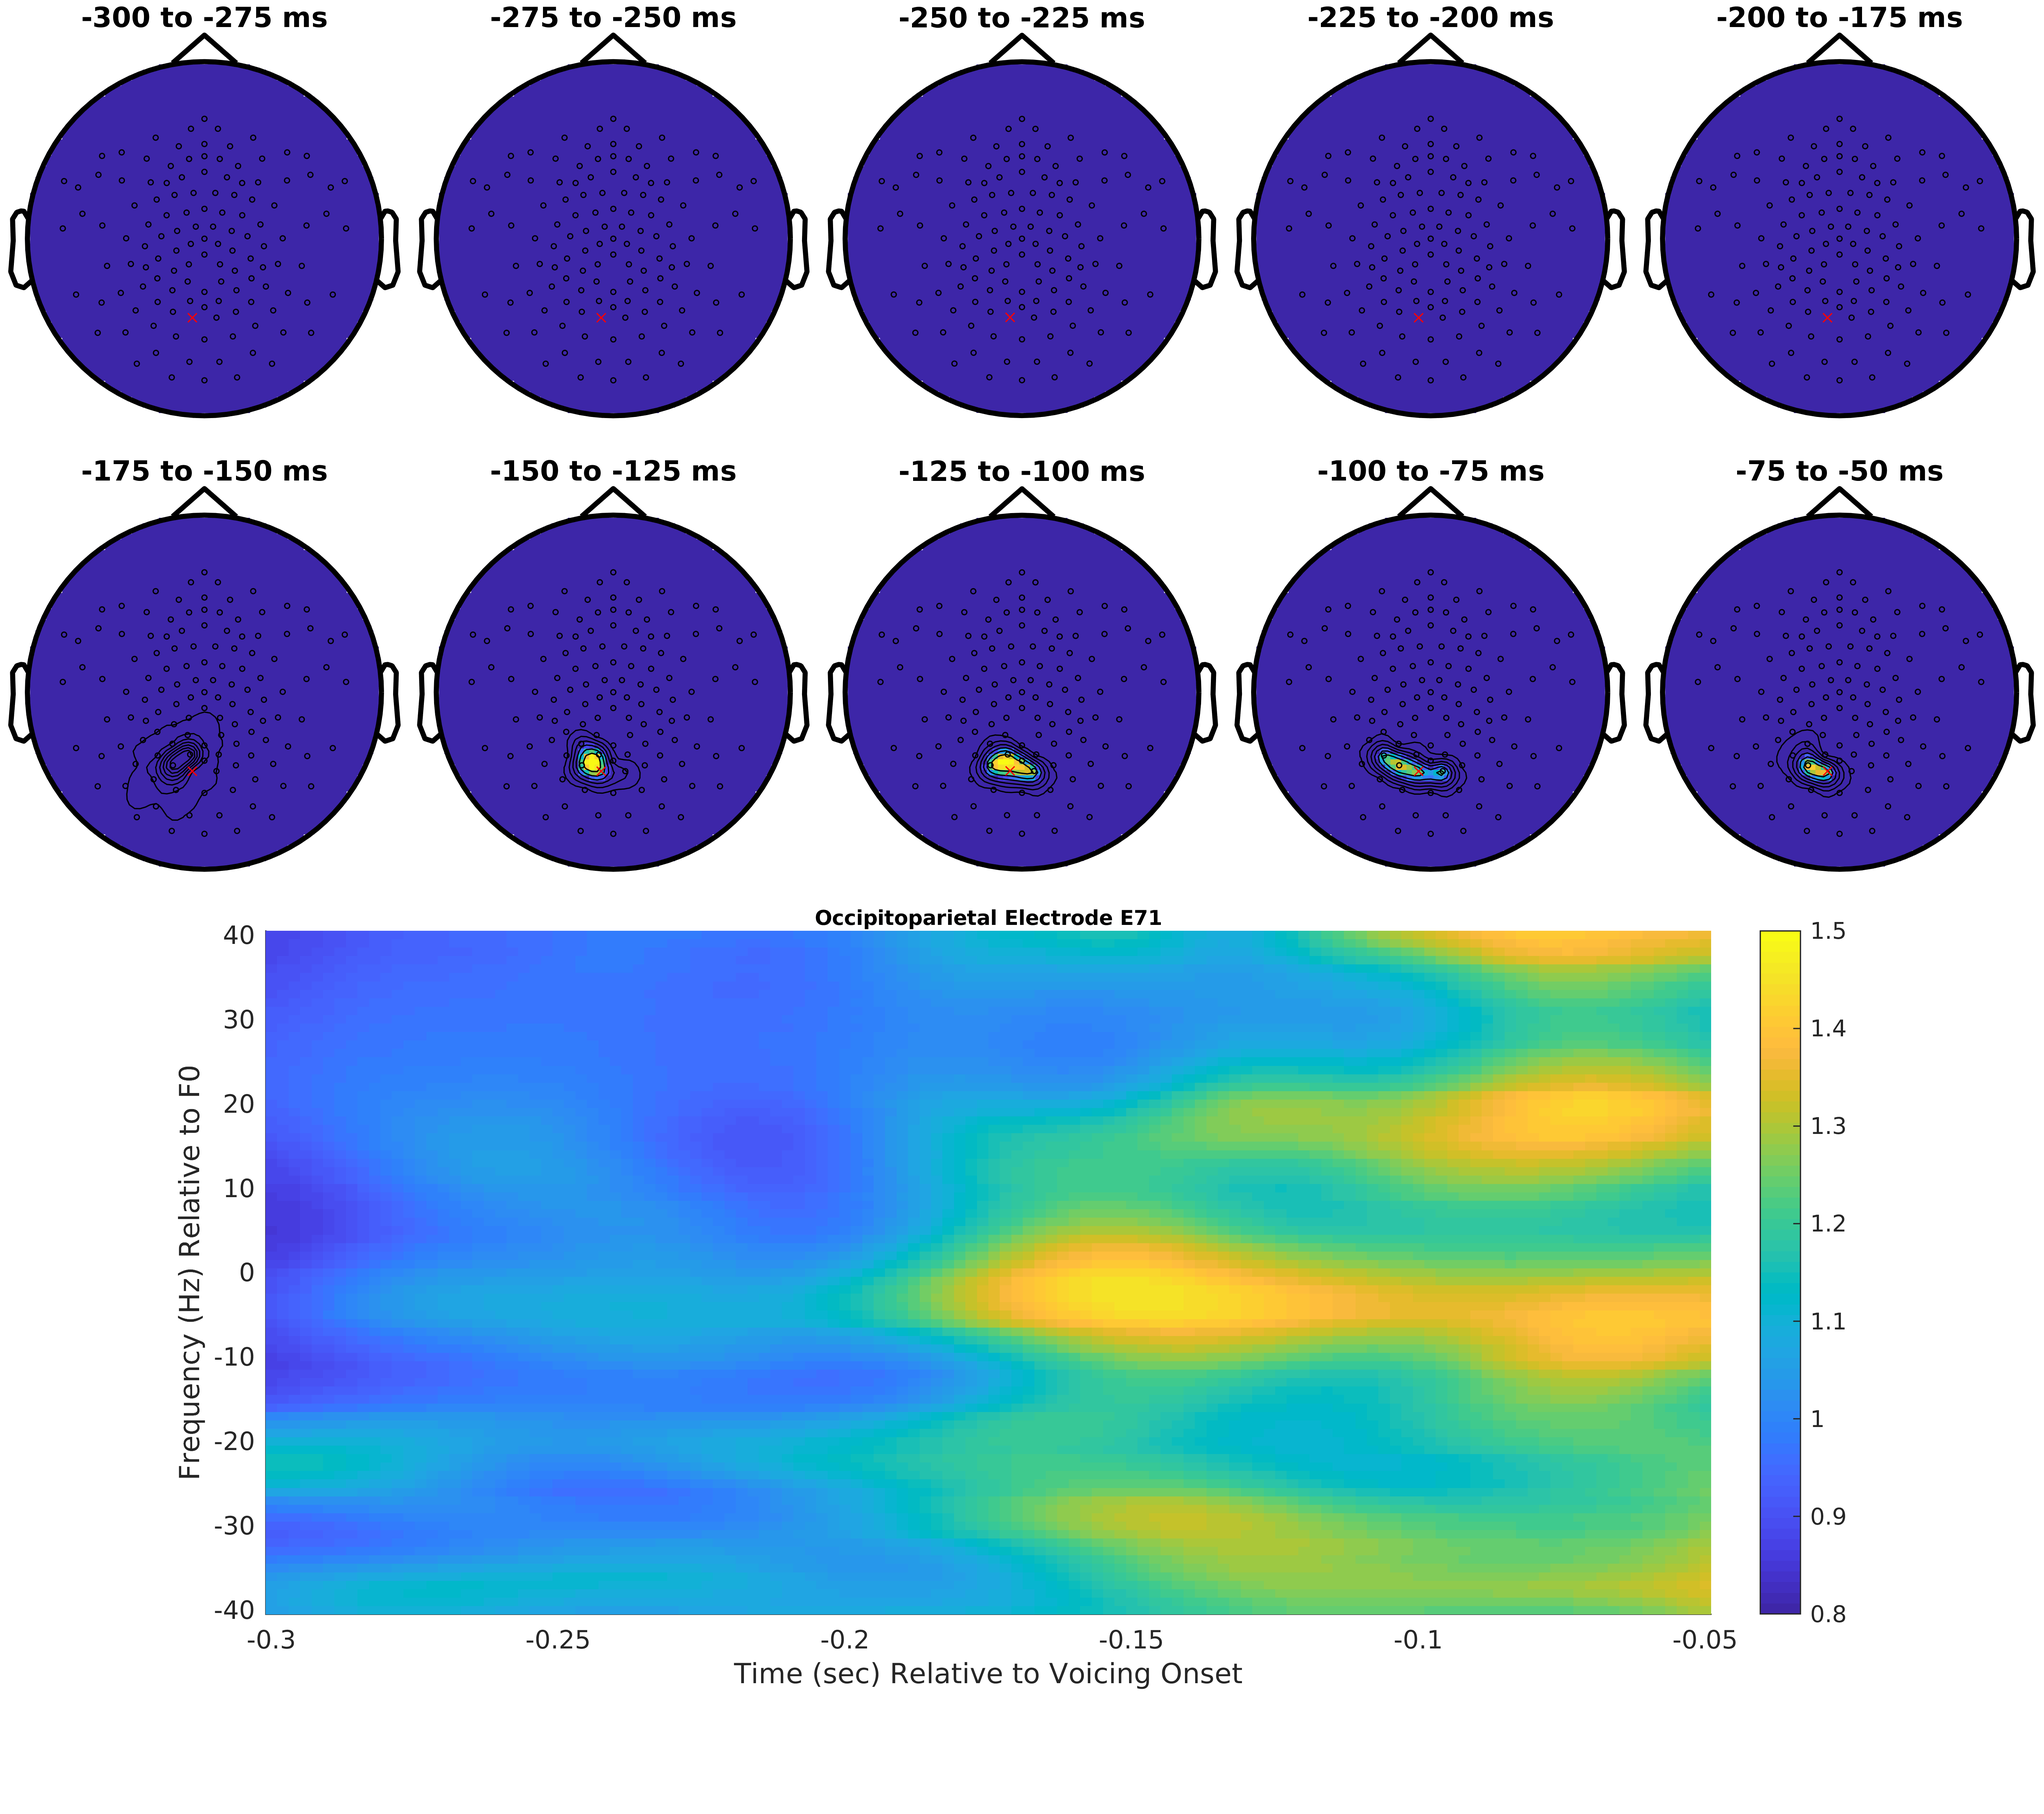
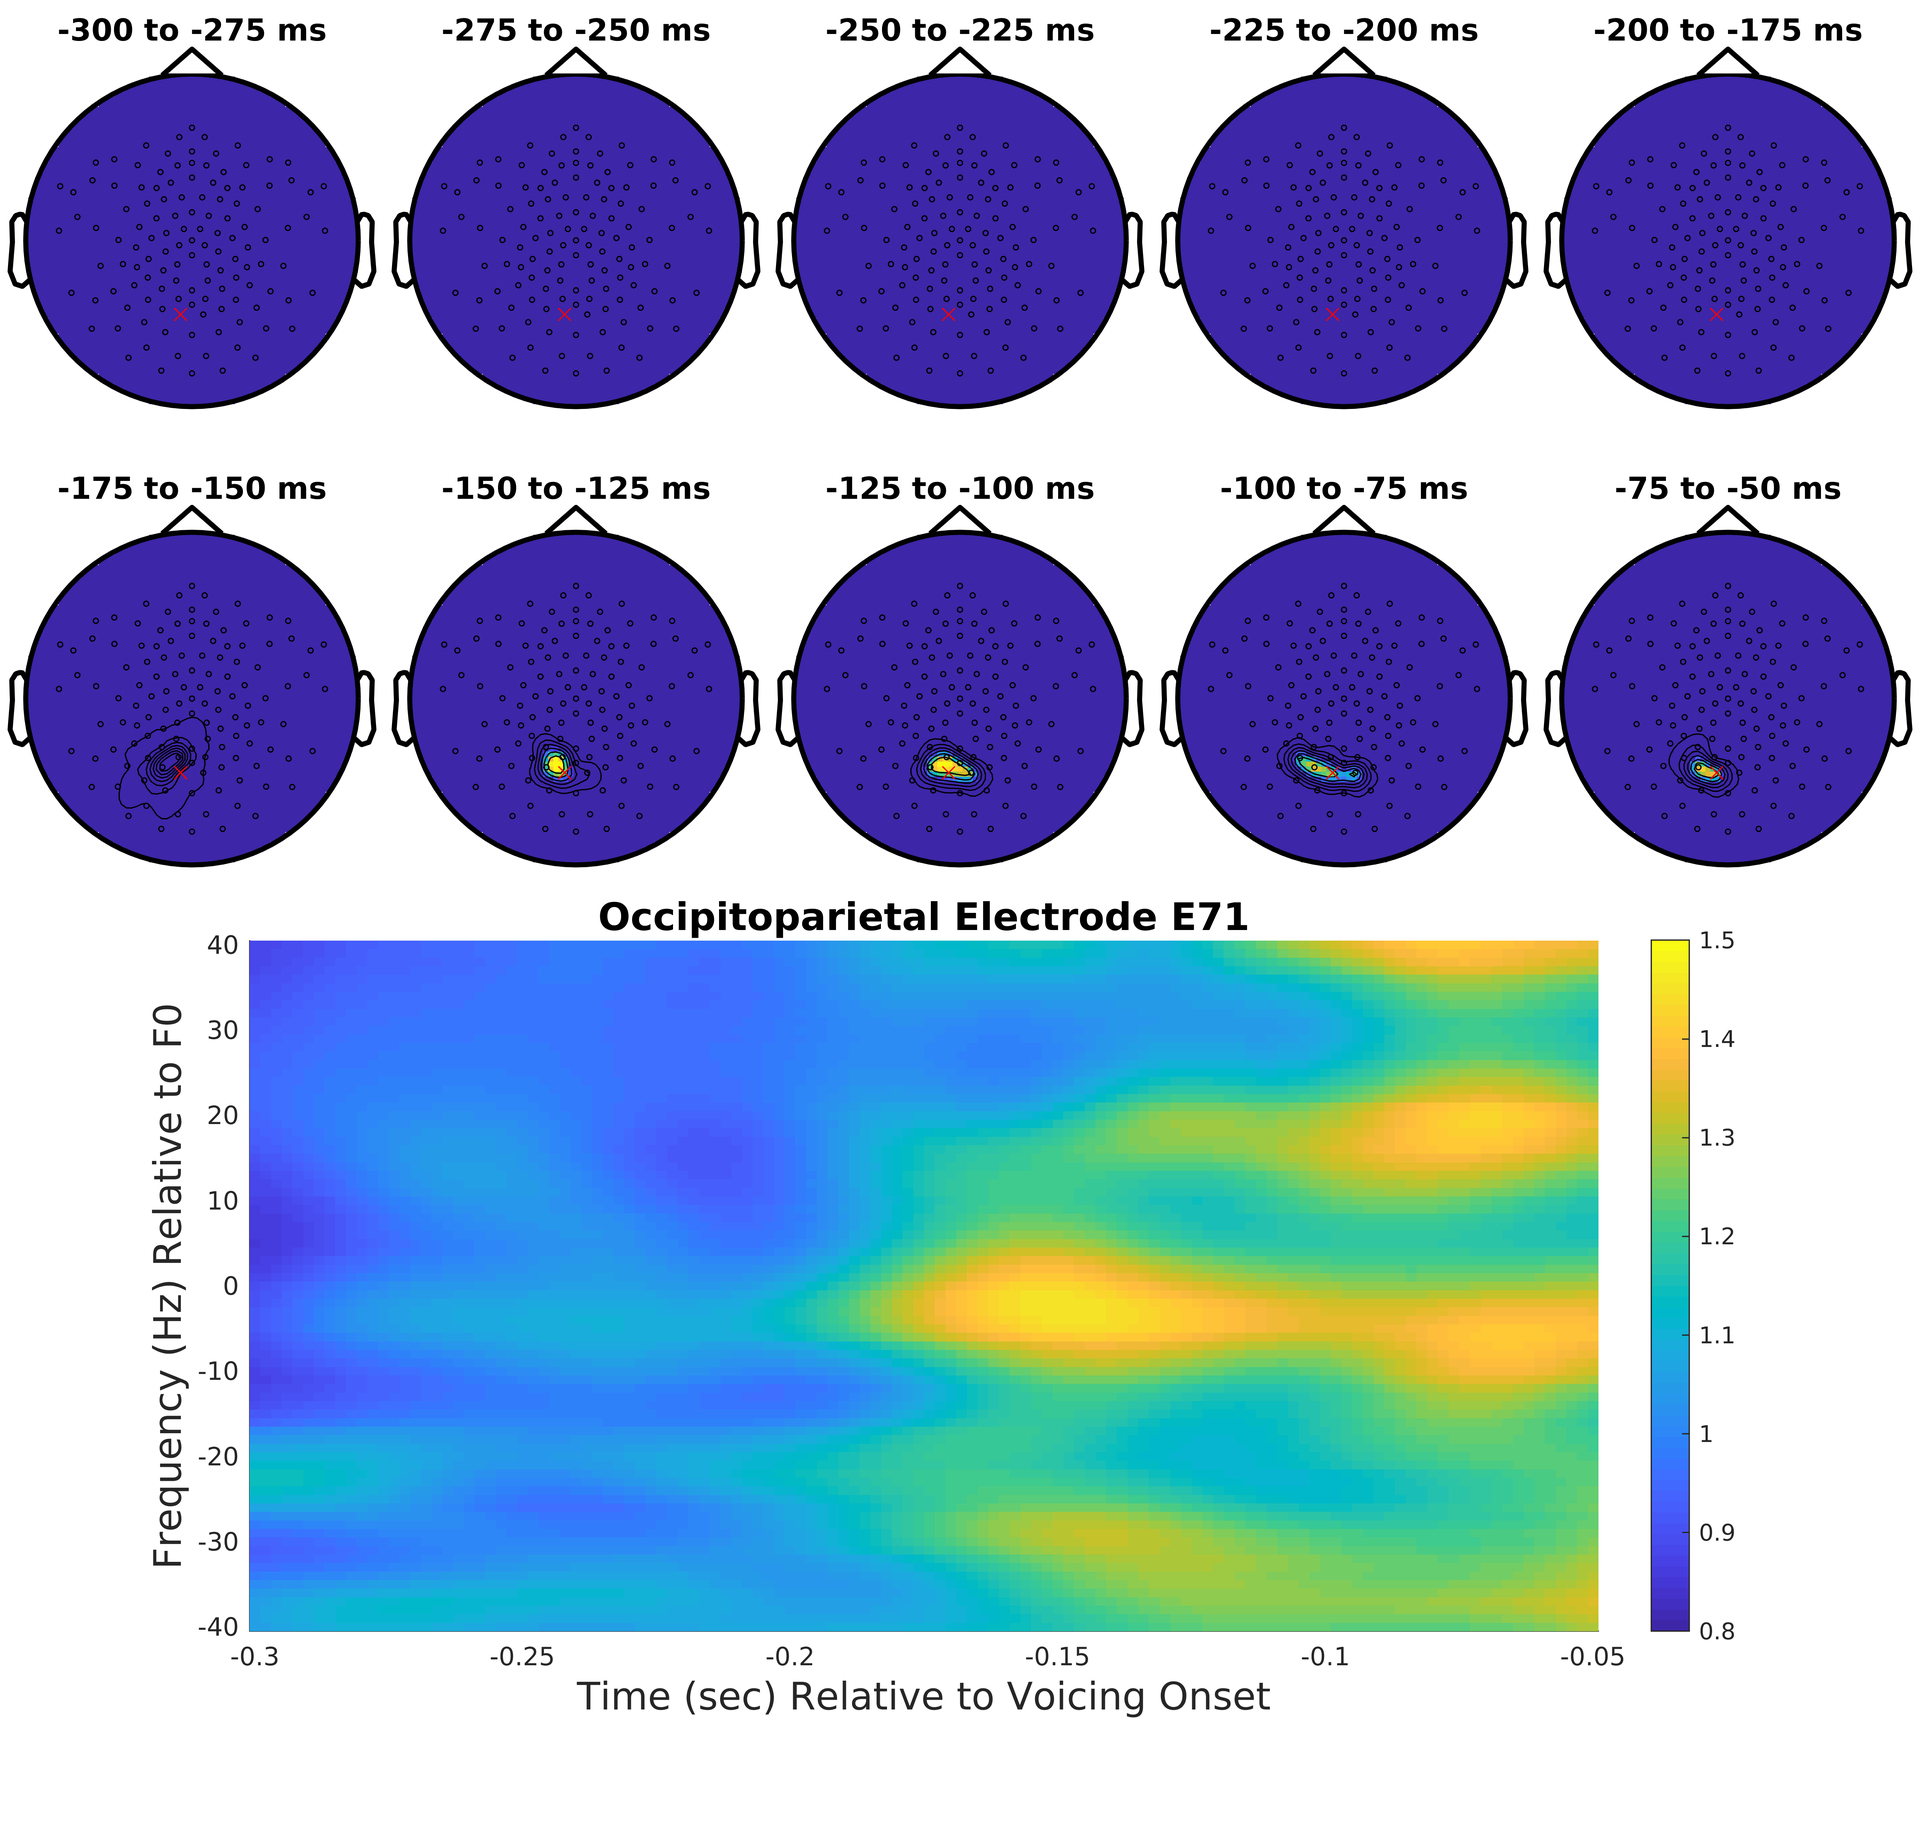
makes font size in image larger

diff --git a/analysis.m b/analysis.m
@@ -142,8 +142,8 @@ for k = 1:(length(j)-1)
    cfg.highlightchannel = 'E71';
    cfg.highlightcolor = [1 0 0];
    cfg.highlightsymbol = 'x';
-   cfg.highlightsize = 3;
-   cfg.markersize = 1;
+   cfg.highlightsize = 7;
+   cfg.markersize = 2;
    cfg.elec      = ELEC;
    cfg.interactive = 'no';
    cfg.interplimits = 'head';
@@ -152,7 +152,7 @@ for k = 1:(length(j)-1)
    beg = num2str(j(k)*1000);
    en = num2str(j(k+1)*1000);
    txt = [beg ' to ' en ' ms'];
-   title(txt);
+   title(txt, 'FontSize', 12);
 end
 
 subplot(4, 5, 11:20);
@@ -166,9 +166,12 @@ cfg.elec = ELEC;
 cfg.colorbar = 'yes';
 cfg.title = 'Occipitoparietal Electrode E71';
 ft_singleplotTFR(cfg, TFR_ersp); 
-xlabel('Time (sec) Relative to Voicing Onset');
-ylabel('Frequency (Hz) Relative to F0');
+xlabel('Time (sec) Relative to Voicing Onset', 'FontSize', 15);
+ylabel('Frequency (Hz) Relative to F0', 'FontSize', 15);
+title('Occipitoparietal Electrode E71', 'FontSize', 15);
 
+%% save figure (adjust in gui window manually first)
+print('f0_cluster_laplacian.png','-dpng','-r500');
 
 
 
